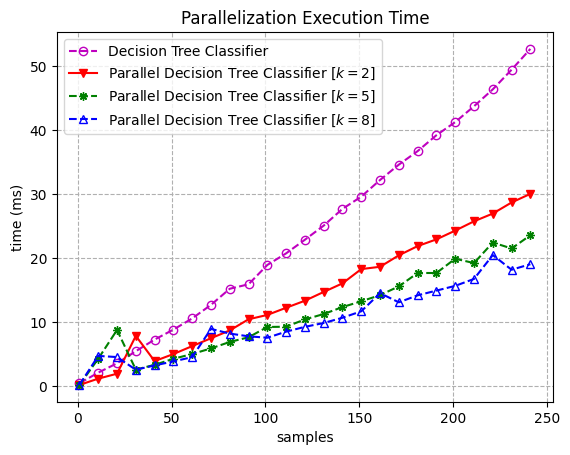
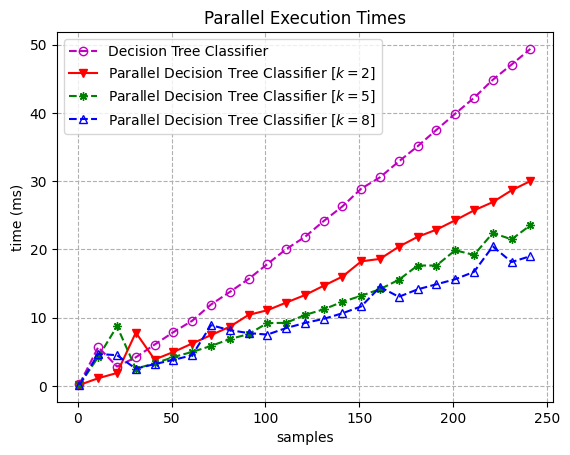
added description to annalysis

diff --git a/public/posts/mpitree-project/index.html b/public/posts/mpitree-project/index.html
@@ -76,7 +76,7 @@
   <meta itemprop="name" content="A Parallel Decision Tree Classifier">
 <meta itemprop="description" content="A Parallel Decision Tree Classifier implementation using MPI (Message Passing Interface)"><meta itemprop="datePublished" content="2023-05-16T00:00:00+00:00" />
 <meta itemprop="dateModified" content="2024-01-16T18:02:27-08:00" />
-<meta itemprop="wordCount" content="754">
+<meta itemprop="wordCount" content="808">
 <meta itemprop="keywords" content="Python,LaTeX,Black,Git," />
 
   
@@ -183,7 +183,7 @@
           <svg width="0.75em" height="0.75em" viewBox="0 0 24 24" fill="none" xmlns="http://www.w3.org/2000/svg">
             <path d="M15.4998 5.49994L18.3282 8.32837M3 20.9997L3.04745 20.6675C3.21536 19.4922 3.29932 18.9045 3.49029 18.3558C3.65975 17.8689 3.89124 17.4059 4.17906 16.9783C4.50341 16.4963 4.92319 16.0765 5.76274 15.237L17.4107 3.58896C18.1918 2.80791 19.4581 2.80791 20.2392 3.58896C21.0202 4.37001 21.0202 5.63634 20.2392 6.41739L8.37744 18.2791C7.61579 19.0408 7.23497 19.4216 6.8012 19.7244C6.41618 19.9932 6.00093 20.2159 5.56398 20.3879C5.07171 20.5817 4.54375 20.6882 3.48793 20.9012L3 20.9997Z" stroke="currentColor" stroke-width="2" stroke-linecap="round" stroke-linejoin="round"/>
           </svg>
-          754 words
+          808 words
         </span>
       
       
@@ -234,7 +234,7 @@
     <li><a href="#model-evaluation-and-analysis">Model Evaluation and Analysis</a>
       <ul>
         <li><a href="#decision-boundaries-varying-values-for-the-max_depth-hyperparameter">Decision Boundaries varying values for the <code>max_depth</code> hyperparameter</a></li>
-        <li><a href="#parallelization-execution-times">Parallelization Execution Times</a></li>
+        <li><a href="#parallel-execution-times">Parallel Execution Times</a></li>
       </ul>
     </li>
     <li><a href="#future-works">Future Works</a></li>
@@ -256,12 +256,12 @@ n_samples = <output id="slider2-value"></output>
 n_classes = <output id="slider3-value"></output>
 <p>$\text{Train/Test Accuracy}$ = <output id="accuracy"></output></p>
 <p><button type="button" onclick="gen_points(); redraw()" style="height: 40px; width: 200px;">Generate New Training Data</button></p>
-<!-- <script type="text/javascript" src="dt.js"></script> -->
+<script type="text/javascript" src="dt.js"></script>
 <figure>
     <canvas width="800" height="400" id="boundary"></canvas><br>
     <figurecaption>Fig. 1: Decision Tree Classifier Demo</figurecaption>
 </figure>
-<script type="text/javascript">
+<!-- <script type="text/javascript">
 
 document.getElementById("slider1-value").innerHTML = document.getElementById("range").value;
 document.getElementById("slider2-value").innerHTML = document.getElementById("range2").value;
@@ -709,7 +709,7 @@ function draw_boundaries(ctx, state, step) {
     }
     document.getElementById("accuracy").innerHTML = accuracy_score(clf, state.points).toString() + "/" + accuracy_score(clf, state.test);
 }
-</script>
+</script> -->
 <h2 id="introduction">Introduction</h2>
 <p>A <strong>Decision Tree</strong> is an $n$-nary tree where each node represents a feature <em>(interior nodes)</em> or response <em>(terminal/leaf nodes)</em> value, and each branch represents a condition on some feature. Decision Trees are intuitive <em>supervised</em> machine learning algorithms for both classification and regression problems. Decision Trees behave by posing questions about the data to narrow their choices until they are somewhat confident in their predictions. The fundamental procedure for a decision tree involves recursively querying each feature and partitioning the dataset and feature space into disjoint subsets and regions until there is no ambiguity about the response variable. The primary goal of any machine learning model is <em>generalization</em> &ndash; the model&rsquo;s ability to perform well on future, unseen data. Therefore, the general approach to learning an optimal decision tree involves asking &ldquo;good&rdquo; questions <em>(<strong>split features</strong> &ndash; the features that maximize the information gain<sup id="fnref:2"><a href="#fn:2" class="footnote-ref" role="doc-noteref">2</a></sup>)</em> about the data that leads to the most certainty about the response variable each time.</p>
 <p>A <strong>Decision Tree Classifier</strong> is a decision tree whose prediction of a response variable is from a set of finite classes <em>(multi-classification)</em>. Given some observed data, examples of classification-type problems is: whether an incoming patient has cancer, an email is spam or not, or a fruit is an apple, banana, or orange.</p>
@@ -739,10 +739,11 @@ $$</p>
 <img src="https://raw.githubusercontent.com/ben-my-to/website/main/static/images/iris_decision_tree.png" alt="Decision Boundary Example" style="width:70%;display:block;margin-left:auto;margin-right:auto;">
   <figcaption>Fig. 3: Decision Boundary Example</figcaption>
 </figure>
-<h3 id="parallelization-execution-times">Parallelization Execution Times</h3>
+<h3 id="parallel-execution-times">Parallel Execution Times</h3>
+<p>Figure 4 below shows a plot of the number of training samples versus the time taken <em>(ms)</em> to train four decision tree models <em>(one sequential and three parallel)</em>. All decision tree models were trained with the same training examples, sampled over a uniform distribution, across all epochs. Our experiment yields an average speedup of $\bar{S}=1.7$.</p>
 <figure class="image">
-<img src="https://raw.githubusercontent.com/ben-my-to/website/main/static/images/parallel_exec_time.png" alt="Parallel Execution Time" style="width:70%;display:block;margin-left:auto;margin-right:auto;">
-  <figcaption>Fig. 4: Parallel Execution Times Example</figcaption>
+<img src="https://raw.githubusercontent.com/ben-my-to/website/main/static/images/parallel_exec_time.png" alt="Parallel Execution Time" style="width:45%;display:block;margin-left:auto;margin-right:auto;">
+  <figcaption>Fig. 4: Parallel Execution Times</figcaption>
 </figure>
 <h2 id="future-works">Future Works</h2>
 <p>Our implementation is restricted to binary trees ($n=2$) with numerical data. We plan to extend the functionality to handle categorical, sparse, missing, etc. data and regression problems in the next iteration.</p>
@@ -851,6 +852,10 @@ Theme <a class=link href=https://github.com/michaelneuper/hugo-texify3 target=_b
   
 
   
+  
+  <script src="https://michaelneuper.github.io/hugo-texify3/js/dt.js"></script>
+  
+  <script src="https://michaelneuper.github.io/hugo-texify3/js/ant.js"></script>
   
 
   

diff --git a/public/posts/larks-ant-project/index.html b/public/posts/larks-ant-project/index.html
@@ -230,7 +230,7 @@
     
     <p><a href="https://github.com/ben-my-to/CPSC-335/tree/main/Project%201">Source Code</a></p>
 <h2 id="online-demo1">Online Demo<sup id="fnref:1"><a href="#fn:1" class="footnote-ref" role="doc-noteref">1</a></sup></h2>
-<script type="text/javascript" src="/js/ant.js"></script>
+<script type="text/javascript" src="/ant.js"></script>
 <p>$q_t$ = <output id="qt"></output><br>
 $T_{ij}$ = <output id="tij"></output><br>
 $\theta$ = <output id="theta"></output><br>
@@ -239,7 +239,7 @@ $\text{counter}$ = <output id="counter"></output></p>
     <canvas width="800" height="400" id="game"></canvas><br>
     <figurecaption>Fig. 1: Larks Ant Demo</figurecaption>
 </figure>
-<script type="text/javascript">
+<!-- <script type="text/javascript">
 // MODIFIED FROM: http://vision.stanford.edu/teaching/cs231n-demos/linear-classify/
 
 var canvas = document.getElementById("game");
@@ -392,7 +392,7 @@ document.addEventListener("keydown", (e) => {
 });
 
 requestAnimationFrame(loop);
-</script>
+</script> -->
 <h2 id="introduction">Introduction</h2>
 <div class="definition">
 <p><strong>Definition 1</strong>: Larks Ant is a 2D cellular automaton $\mathcal{A}$ that consists of a set of states $\mathbf{Q}$, a quadruple of colors $\Sigma$, an initial state $q_t\in\mathbf{Q}$, a local variable $\text{counter}$, and a transition function $\delta_\mathcal{A}:\mathbf{Q}\times\Sigma\to\mathbf{Q}\times\Sigma\times\theta$ where</p>
@@ -547,6 +547,10 @@ Theme <a class=link href=https://github.com/michaelneuper/hugo-texify3 target=_b
   
 
   
+  
+  <script src="https://michaelneuper.github.io/hugo-texify3/js/dt.js"></script>
+  
+  <script src="https://michaelneuper.github.io/hugo-texify3/js/ant.js"></script>
   
 
   

diff --git a/public/categories/distributed-algorithms/index.html b/public/categories/distributed-algorithms/index.html
@@ -204,6 +204,10 @@ Theme <a class=link href=https://github.com/michaelneuper/hugo-texify3 target=_b
 
   
   
+  <script src="https://michaelneuper.github.io/hugo-texify3/js/dt.js"></script>
+  
+  <script src="https://michaelneuper.github.io/hugo-texify3/js/ant.js"></script>
+  
 
   
   

diff --git a/public/categories/game-development/index.html b/public/categories/game-development/index.html
@@ -204,6 +204,10 @@ Theme <a class=link href=https://github.com/michaelneuper/hugo-texify3 target=_b
 
   
   
+  <script src="https://michaelneuper.github.io/hugo-texify3/js/dt.js"></script>
+  
+  <script src="https://michaelneuper.github.io/hugo-texify3/js/ant.js"></script>
+  
 
   
   

diff --git a/public/categories/index.html b/public/categories/index.html
@@ -241,6 +241,10 @@ Theme <a class=link href=https://github.com/michaelneuper/hugo-texify3 target=_b
 
   
   
+  <script src="https://michaelneuper.github.io/hugo-texify3/js/dt.js"></script>
+  
+  <script src="https://michaelneuper.github.io/hugo-texify3/js/ant.js"></script>
+  
 
   
   

diff --git a/public/categories/machine-learning/index.html b/public/categories/machine-learning/index.html
@@ -204,6 +204,10 @@ Theme <a class=link href=https://github.com/michaelneuper/hugo-texify3 target=_b
 
   
   
+  <script src="https://michaelneuper.github.io/hugo-texify3/js/dt.js"></script>
+  
+  <script src="https://michaelneuper.github.io/hugo-texify3/js/ant.js"></script>
+  
 
   
   

diff --git a/public/categories/object-oriented-programming/index.html b/public/categories/object-oriented-programming/index.html
@@ -204,6 +204,10 @@ Theme <a class=link href=https://github.com/michaelneuper/hugo-texify3 target=_b
 
   
   
+  <script src="https://michaelneuper.github.io/hugo-texify3/js/dt.js"></script>
+  
+  <script src="https://michaelneuper.github.io/hugo-texify3/js/ant.js"></script>
+  
 
   
   

diff --git a/public/categories/software-engineering/index.html b/public/categories/software-engineering/index.html
@@ -204,6 +204,10 @@ Theme <a class=link href=https://github.com/michaelneuper/hugo-texify3 target=_b
 
   
   
+  <script src="https://michaelneuper.github.io/hugo-texify3/js/dt.js"></script>
+  
+  <script src="https://michaelneuper.github.io/hugo-texify3/js/ant.js"></script>
+  
 
   
   

diff --git a/public/categories/theoretical-computer-science/index.html b/public/categories/theoretical-computer-science/index.html
@@ -204,6 +204,10 @@ Theme <a class=link href=https://github.com/michaelneuper/hugo-texify3 target=_b
 
   
   
+  <script src="https://michaelneuper.github.io/hugo-texify3/js/dt.js"></script>
+  
+  <script src="https://michaelneuper.github.io/hugo-texify3/js/ant.js"></script>
+  
 
   
   

diff --git a/public/categories/web-development/index.html b/public/categories/web-development/index.html
@@ -216,6 +216,10 @@ Theme <a class=link href=https://github.com/michaelneuper/hugo-texify3 target=_b
 
   
   
+  <script src="https://michaelneuper.github.io/hugo-texify3/js/dt.js"></script>
+  
+  <script src="https://michaelneuper.github.io/hugo-texify3/js/ant.js"></script>
+  
 
   
   

diff --git a/public/index.html b/public/index.html
@@ -305,6 +305,10 @@ Theme <a class=link href=https://github.com/michaelneuper/hugo-texify3 target=_b
 
   
   
+  <script src="https://michaelneuper.github.io/hugo-texify3/js/dt.js"></script>
+  
+  <script src="https://michaelneuper.github.io/hugo-texify3/js/ant.js"></script>
+  
 
   
   

diff --git a/public/posts/algorithm-vizualizer-project/index.html b/public/posts/algorithm-vizualizer-project/index.html
@@ -328,6 +328,10 @@ Theme <a class=link href=https://github.com/michaelneuper/hugo-texify3 target=_b
 
   
   
+  <script src="https://michaelneuper.github.io/hugo-texify3/js/dt.js"></script>
+  
+  <script src="https://michaelneuper.github.io/hugo-texify3/js/ant.js"></script>
+  
 
   
   
